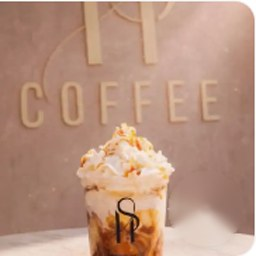
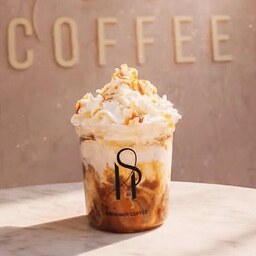
SH Coffee : nouvelles photos du Poulet pesto, du Matcha crème brûlée et de la Brioche à composer
Photos du restaurant recadrées et rendues plus nettes, affichées en
grand dans la fiche produit.

Claude-Session: https://claude.ai/code/session_0158WgzdzDHdazuwW1qVe7W2

diff --git a/sh-coffee/index.html b/sh-coffee/index.html
@@ -610,7 +610,7 @@
     </div>
   </div>
 </div>
-<script type="application/json" id="products-data">{"Toast italien": {"price": "13,90 €", "desc": "Stracciatella, roquette, oignons caramélisés, parmesan, charcuterie de saison", "img": "images/produits/toast-italien.jpg", "large": true, "groups": []}, "Toast saumon": {"price": "13,90 €", "desc": "Cream cheese, sauce concombre, concombre, saumon, parmesan, truffe", "img": "images/carte/toast-saumon.jpg", "large": false, "groups": []}, "Le Cheesy Melt": {"price": "12,90 €", "desc": "Steak, salade, cheddar, sauce au choix", "img": "images/carte/cheesy-melt.jpg", "large": false, "groups": []}, "Le Smoked": {"price": "12,90 €", "desc": "", "img": "images/produits/le-smoked.jpg", "large": true, "groups": []}, "Poulet pesto": {"price": "12,90 €", "desc": "Poulet mariné, mayonnaise truffe, pesto, parmesan", "img": "images/carte/poulet-pesto.jpg", "large": false, "groups": []}, "Toast chicken": {"price": "12,80 €", "desc": "Poulet tenders, sauce parmesan, parmesan, salade, bacon", "img": null, "large": false, "groups": []}, "Toast savoyard": {"price": "12,80 €", "desc": "Steak, raclette, lardons, bacon, sauce moutarde-miel", "img": "images/carte/toast-savoyard.jpg", "large": false, "groups": []}, "Panuzzo": {"price": "12,00 €", "desc": "Stracciatella, double charcuterie, pesto", "img": null, "large": false, "groups": []}, "Bowl salé": {"price": "11,00 €", "desc": "", "img": null, "large": false, "groups": []}, "Pink Burger": {"price": "10,00 €", "desc": "", "img": null, "large": false, "groups": []}, "Brioche croque": {"price": "9,00 €", "desc": "Béchamel, blanc de dinde, mozzarella", "img": null, "large": false, "groups": []}, "Grilled cheese": {"price": "9,00 €", "desc": "Cheese, crème truffe (avec ou sans bacon)", "img": "images/carte/grilled-cheese.jpg", "large": false, "groups": []}, "Toast egg": {"price": "9,00 €", "desc": "Œufs brouillés, crème truffe", "img": null, "large": false, "groups": []}, "Frites": {"price": "3,00 €", "desc": "", "img": null, "large": false, "groups": []}, "Formule toast + frites + boisson": {"price": "17,20 €", "desc": "Un toast au choix, une portion de frites et une boisson.", "img": null, "large": false, "groups": [{"title": "Toast", "note": "1 au choix", "items": [{"name": "Cheesy Melt", "price": ""}, {"name": "Chicken", "price": ""}, {"name": "Italien", "price": ""}, {"name": "Poulet pesto", "price": ""}, {"name": "Savoyard", "price": ""}, {"name": "Smoked", "price": ""}]}, {"title": "Frites", "note": "Comprises", "items": [{"name": "Frites", "price": ""}]}, {"title": "Boisson", "note": "1 au choix · prix de la formule", "items": [{"name": "Passiona", "price": "17,20 €"}, {"name": "Violetta", "price": "17,20 €"}, {"name": "Refreshe (sirop au choix)", "price": "17,20 €"}, {"name": "Dragon Sunset", "price": "17,20 €"}, {"name": "Fresh fusion", "price": "17,20 €"}, {"name": "Lita", "price": "17,90 €"}, {"name": "Bubble tea", "price": "17,90 €"}, {"name": "Passion Paradise", "price": "17,90 €"}, {"name": "Mojito (au choix)", "price": "17,90 €"}, {"name": "Eau (Chicken, Cheesy Melt)", "price": "17,00 €"}, {"name": "Eau (autres toasts)", "price": "17,20 €"}]}]}, "Formule brioche croque + frites + boisson": {"price": "14,20 €", "desc": "Brioche croque, une portion de frites et une boisson.", "img": null, "large": false, "groups": [{"title": "Frites", "note": "Comprises", "items": [{"name": "Frites", "price": ""}]}, {"title": "Boisson", "note": "1 au choix · prix de la formule", "items": [{"name": "Passiona", "price": "14,20 €"}, {"name": "Violetta", "price": "14,20 €"}, {"name": "Refreshe (sirop au choix)", "price": "14,20 €"}, {"name": "Dragon Sunset", "price": "14,20 €"}, {"name": "Fresh fusion", "price": "14,20 €"}, {"name": "Lita", "price": "14,90 €"}, {"name": "Bubble tea", "price": "14,90 €"}, {"name": "Passion Paradise", "price": "14,90 €"}, {"name": "Mojito (au choix)", "price": "14,90 €"}, {"name": "Eau", "price": "14,00 €"}]}]}, "Brioche pistacho": {"price": "9,00 €", "desc": "Crème pistache, concassé de pistache", "img": "images/carte/brioche-pistacho.jpg", "large": false, "groups": []}, "Brioche crazy": {"price": "9,00 €", "desc": "Crème brûlée", "img": "images/carte/brioche-crazy.jpg", "large": false, "groups": []}, "Brioche Dubaï": {"price": "9,00 €", "desc": "Kunefe, fraise, Nutella, pistache", "img": null, "large": false, "groups": []}, "Brioche tiramisu": {"price": "9,00 €", "desc": "Café, crème tiramisu, chocolat", "img": null, "large": false, "groups": []}, "Brioche pommie": {"price": "9,00 €", "desc": "Pomme, caramel, crème maison", "img": null, "large": false, "groups": []}, "Brioche banane flambée": {"price": "9,00 €", "desc": "Brioche perdue, chantilly, banane flambée, caramel", "img": null, "large": false, "groups": []}, "Brioche citron": {"price": "9,00 €", "desc": "", "img": "images/produits/brioche-citron.jpg", "large": true, "groups": []}, "Brioche à composer": {"price": "5,00 €", "desc": "Brioche à composer au choix", "img": "images/carte/brioche-a-composer.jpg", "large": false, "groups": []}, "Cookie dough": {"price": "9,00 €", "desc": "Cookie, Nutella, crème Bueno, chocolat blanc, Kinder Maxi", "img": "images/produits/cookie-dough.jpg", "large": true, "groups": []}, "Cup Dubaï": {"price": "9,50 €", "desc": "", "img": "images/carte/cup-dubai.jpg", "large": false, "groups": []}, "Choco banana": {"price": "8,00 €", "desc": "", "img": null, "large": false, "groups": []}, "Cup": {"price": "dès 5,00 €", "desc": "Pancakes, gaufres ou brioches, avec nappage et extras au choix.", "img": "images/carte/cup.jpg", "large": false, "groups": [{"title": "Base", "note": "1 au choix", "items": [{"name": "Pancakes", "price": "5,00 €"}, {"name": "Gaufres", "price": "5,50 €"}, {"name": "Brioches", "price": "5,50 €"}]}, {"title": "Nappage", "note": "1 au choix", "items": [{"name": "Nutella", "price": "+1,00 €"}, {"name": "Coulis caramel", "price": "+1,00 €"}, {"name": "Coulis spéculoos", "price": "+1,00 €"}, {"name": "Coulis chocolat blanc", "price": "+1,00 €"}, {"name": "Coulis Bueno white", "price": "+1,00 €"}, {"name": "Coulis pistache", "price": "+1,50 €"}, {"name": "Coulis fruits rouges", "price": "+1,50 €"}, {"name": "Sans nappage", "price": ""}]}, {"title": "Extras", "note": "En option", "items": [{"name": "Banane", "price": "+1,50 €"}, {"name": "Fraise", "price": "+1,50 €"}, {"name": "Pistache", "price": "+1,50 €"}, {"name": "Spéculoos", "price": "+1,00 €"}, {"name": "Oreo", "price": "+1,00 €"}, {"name": "Kinder maxi", "price": "+1,00 €"}, {"name": "Kinder country", "price": "+1,00 €"}, {"name": "Kinder Bueno", "price": "+1,00 €"}, {"name": "Kinder Bueno white", "price": "+1,00 €"}, {"name": "Chantilly", "price": "+1,00 €"}, {"name": "Glace", "price": "+1,00 €"}, {"name": "Sans extra", "price": ""}]}]}, "Bowl sucré": {"price": "9,00 €", "desc": "Base au choix, avec nappage et extras au choix.", "img": "images/carte/bowl-sucre.jpg", "large": false, "groups": [{"title": "Base", "note": "Comprise, 1 au choix", "items": [{"name": "Gaufres", "price": ""}, {"name": "Pancakes", "price": ""}, {"name": "Brioches", "price": ""}]}, {"title": "Nappage", "note": "1 au choix", "items": [{"name": "Nutella", "price": "+1,00 €"}, {"name": "Coulis caramel", "price": "+1,00 €"}, {"name": "Coulis spéculoos", "price": "+1,00 €"}, {"name": "Coulis chocolat blanc", "price": "+1,00 €"}, {"name": "Coulis Bueno white", "price": "+1,00 €"}, {"name": "Coulis pistache", "price": "+1,50 €"}, {"name": "Coulis fruits rouges", "price": "+1,50 €"}, {"name": "Sans nappage", "price": ""}]}, {"title": "Extras", "note": "En option", "items": [{"name": "Banane", "price": "+1,50 €"}, {"name": "Fraise", "price": "+1,50 €"}, {"name": "Pistache", "price": "+1,50 €"}, {"name": "Spéculoos", "price": "+1,00 €"}, {"name": "Oreo", "price": "+1,00 €"}, {"name": "Kinder maxi", "price": "+1,00 €"}, {"name": "Kinder country", "price": "+1,00 €"}, {"name": "Kinder Bueno", "price": "+1,00 €"}, {"name": "Kinder Bueno white", "price": "+1,00 €"}, {"name": "Chantilly", "price": "+1,00 €"}, {"name": "Glace", "price": "+1,00 €"}, {"name": "Sans extra", "price": ""}]}]}, "Pancakes": {"price": "5,00 €", "desc": "", "img": null, "large": false, "groups": []}, "Citron cake": {"price": "3,00 €", "desc": "", "img": null, "large": false, "groups": []}, "Matcha crème brûlée": {"price": "7,00 €", "desc": "Sirop vanille, lait vanille, matcha, crème brûlée", "img": "images/carte/matcha-creme-brulee.jpg", "large": false, "groups": []}, "Matcha strawberry": {"price": "7,00 €", "desc": "Purée de fraise, lait d'avoine, matcha", "img": null, "large": false, "groups": []}, "Matcha mangue": {"price": "7,00 €", "desc": "Purée de mangue, lait d'avoine, matcha", "img": null, "large": false, "groups": []}, "Matcha": {"price": "6,00 €", "desc": "", "img": null, "large": false, "groups": []}, "Lita": {"price": "5,80 €", "desc": "Limonade, rose, framboise, litchi", "img": "images/produits/lita.jpg", "large": true, "groups": []}, "Passion Paradise": {"price": "5,50 €", "desc": "Limonade passion, crème passion", "img": "images/produits/passion-paradise.jpg", "large": true, "groups": []}, "Dragon Sunset": {"price": "5,00 €", "desc": "Citronnade, mangue, thé, fruit du dragon frais", "img": "images/carte/dragon-sunset.jpg", "large": false, "groups": []}, "Violetta": {"price": "5,00 €", "desc": "Citronnade, violette", "img": "images/carte/violetta.jpg", "large": false, "groups": []}, "Passiona": {"price": "5,00 €", "desc": "Mangue, passion, grenade", "img": "images/produits/passiona.jpg", "large": true, "groups": []}, "Fresh fusion": {"price": "5,00 €", "desc": "", "img": "images/carte/fresh-fusion.jpg", "large": false, "groups": []}, "Caramel macchiato": {"price": "5,00 €", "desc": "", "img": "images/produits/caramel-macchiato.jpg", "large": true, "groups": []}, "Bubble tea": {"price": "6,00 €", "desc": "Boba et sirop au choix.", "img": "images/produits/bubble-tea.jpg", "large": true, "groups": [{"title": "Boba", "note": "1 au choix", "items": [{"name": "Mangue", "price": ""}, {"name": "Passion", "price": ""}, {"name": "Litchi", "price": ""}, {"name": "Fraise", "price": ""}, {"name": "Pêche", "price": ""}]}, {"title": "Sirop", "note": "1 au choix", "items": [{"name": "Mangue", "price": ""}, {"name": "Cassis", "price": ""}, {"name": "Litchi", "price": ""}, {"name": "Framboise", "price": ""}, {"name": "Fraise", "price": ""}, {"name": "Passion", "price": ""}, {"name": "Melon", "price": ""}, {"name": "Thé vert pêche", "price": ""}, {"name": "Rose", "price": ""}, {"name": "Ananas", "price": ""}, {"name": "Pêche", "price": ""}, {"name": "Grenadine", "price": ""}]}]}, "Mojito": {"price": "5,50 €", "desc": "Parfum au choix.", "img": null, "large": false, "groups": []}, "Refreshe": {"price": "dès 3,00 €", "desc": "Sirop au choix et eau gazeuse, en canette ou en grand format.", "img": null, "large": false, "groups": [{"title": "Taille", "note": "1 au choix", "items": [{"name": "Medium (canette)", "price": "3,00 €"}, {"name": "Large", "price": "5,00 €"}]}, {"title": "Sirop", "note": "Compris, 1 au choix", "items": [{"name": "Ananas", "price": ""}, {"name": "Rose", "price": ""}, {"name": "Grenadine", "price": ""}, {"name": "Mangue", "price": ""}, {"name": "Passion", "price": ""}, {"name": "Fraise", "price": ""}, {"name": "Framboise", "price": ""}, {"name": "Thé vert pêche", "price": ""}, {"name": "Pêche", "price": ""}, {"name": "Litchi", "price": ""}, {"name": "Melon", "price": ""}, {"name": "Cassis", "price": ""}]}, {"title": "Sirop supplémentaire", "note": "En option", "items": [{"name": "Ananas", "price": "+0,50 €"}, {"name": "Rose", "price": "+0,50 €"}, {"name": "Grenadine", "price": "+0,50 €"}, {"name": "Mangue", "price": "+0,50 €"}, {"name": "Passion", "price": "+0,50 €"}, {"name": "Fraise", "price": "+0,50 €"}, {"name": "Framboise", "price": "+0,50 €"}, {"name": "Thé vert pêche", "price": "+0,50 €"}, {"name": "Pêche", "price": "+0,50 €"}, {"name": "Litchi", "price": "+0,50 €"}, {"name": "Melon", "price": "+0,50 €"}, {"name": "Cassis", "price": "+0,50 €"}]}]}, "Eau": {"price": "1,50 €", "desc": "En canette SH Coffee.", "img": "images/produits/eau.jpg", "large": true, "groups": []}, "Cappuccino": {"price": "4,00 €", "desc": "", "img": null, "large": false, "groups": []}, "Chocolat chaud": {"price": "4,00 €", "desc": "", "img": null, "large": false, "groups": []}, "Flat white": {"price": "3,50 €", "desc": "", "img": null, "large": false, "groups": []}, "Café au lait": {"price": "3,20 €", "desc": "", "img": null, "large": false, "groups": []}, "Café": {"price": "3,00 €", "desc": "", "img": null, "large": false, "groups": []}, "Expresso": {"price": "3,00 €", "desc": "", "img": null, "large": false, "groups": []}, "Americano": {"price": "3,00 €", "desc": "", "img": null, "large": false, "groups": []}, "Thé": {"price": "3,00 €", "desc": "", "img": null, "large": false, "groups": []}}</script>
+<script type="application/json" id="products-data">{"Toast italien": {"price": "13,90 €", "desc": "Stracciatella, roquette, oignons caramélisés, parmesan, charcuterie de saison", "img": "images/produits/toast-italien.jpg", "large": true, "groups": []}, "Toast saumon": {"price": "13,90 €", "desc": "Cream cheese, sauce concombre, concombre, saumon, parmesan, truffe", "img": "images/carte/toast-saumon.jpg", "large": false, "groups": []}, "Le Cheesy Melt": {"price": "12,90 €", "desc": "Steak, salade, cheddar, sauce au choix", "img": "images/carte/cheesy-melt.jpg", "large": false, "groups": []}, "Le Smoked": {"price": "12,90 €", "desc": "", "img": "images/produits/le-smoked.jpg", "large": true, "groups": []}, "Poulet pesto": {"price": "12,90 €", "desc": "Poulet mariné, mayonnaise truffe, pesto, parmesan", "img": "images/produits/poulet-pesto.jpg", "large": true, "groups": []}, "Toast chicken": {"price": "12,80 €", "desc": "Poulet tenders, sauce parmesan, parmesan, salade, bacon", "img": null, "large": false, "groups": []}, "Toast savoyard": {"price": "12,80 €", "desc": "Steak, raclette, lardons, bacon, sauce moutarde-miel", "img": "images/carte/toast-savoyard.jpg", "large": false, "groups": []}, "Panuzzo": {"price": "12,00 €", "desc": "Stracciatella, double charcuterie, pesto", "img": null, "large": false, "groups": []}, "Bowl salé": {"price": "11,00 €", "desc": "", "img": null, "large": false, "groups": []}, "Pink Burger": {"price": "10,00 €", "desc": "", "img": null, "large": false, "groups": []}, "Brioche croque": {"price": "9,00 €", "desc": "Béchamel, blanc de dinde, mozzarella", "img": null, "large": false, "groups": []}, "Grilled cheese": {"price": "9,00 €", "desc": "Cheese, crème truffe (avec ou sans bacon)", "img": "images/carte/grilled-cheese.jpg", "large": false, "groups": []}, "Toast egg": {"price": "9,00 €", "desc": "Œufs brouillés, crème truffe", "img": null, "large": false, "groups": []}, "Frites": {"price": "3,00 €", "desc": "", "img": null, "large": false, "groups": []}, "Formule toast + frites + boisson": {"price": "17,20 €", "desc": "Un toast au choix, une portion de frites et une boisson.", "img": null, "large": false, "groups": [{"title": "Toast", "note": "1 au choix", "items": [{"name": "Cheesy Melt", "price": ""}, {"name": "Chicken", "price": ""}, {"name": "Italien", "price": ""}, {"name": "Poulet pesto", "price": ""}, {"name": "Savoyard", "price": ""}, {"name": "Smoked", "price": ""}]}, {"title": "Frites", "note": "Comprises", "items": [{"name": "Frites", "price": ""}]}, {"title": "Boisson", "note": "1 au choix · prix de la formule", "items": [{"name": "Passiona", "price": "17,20 €"}, {"name": "Violetta", "price": "17,20 €"}, {"name": "Refreshe (sirop au choix)", "price": "17,20 €"}, {"name": "Dragon Sunset", "price": "17,20 €"}, {"name": "Fresh fusion", "price": "17,20 €"}, {"name": "Lita", "price": "17,90 €"}, {"name": "Bubble tea", "price": "17,90 €"}, {"name": "Passion Paradise", "price": "17,90 €"}, {"name": "Mojito (au choix)", "price": "17,90 €"}, {"name": "Eau (Chicken, Cheesy Melt)", "price": "17,00 €"}, {"name": "Eau (autres toasts)", "price": "17,20 €"}]}]}, "Formule brioche croque + frites + boisson": {"price": "14,20 €", "desc": "Brioche croque, une portion de frites et une boisson.", "img": null, "large": false, "groups": [{"title": "Frites", "note": "Comprises", "items": [{"name": "Frites", "price": ""}]}, {"title": "Boisson", "note": "1 au choix · prix de la formule", "items": [{"name": "Passiona", "price": "14,20 €"}, {"name": "Violetta", "price": "14,20 €"}, {"name": "Refreshe (sirop au choix)", "price": "14,20 €"}, {"name": "Dragon Sunset", "price": "14,20 €"}, {"name": "Fresh fusion", "price": "14,20 €"}, {"name": "Lita", "price": "14,90 €"}, {"name": "Bubble tea", "price": "14,90 €"}, {"name": "Passion Paradise", "price": "14,90 €"}, {"name": "Mojito (au choix)", "price": "14,90 €"}, {"name": "Eau", "price": "14,00 €"}]}]}, "Brioche pistacho": {"price": "9,00 €", "desc": "Crème pistache, concassé de pistache", "img": "images/carte/brioche-pistacho.jpg", "large": false, "groups": []}, "Brioche crazy": {"price": "9,00 €", "desc": "Crème brûlée", "img": "images/carte/brioche-crazy.jpg", "large": false, "groups": []}, "Brioche Dubaï": {"price": "9,00 €", "desc": "Kunefe, fraise, Nutella, pistache", "img": null, "large": false, "groups": []}, "Brioche tiramisu": {"price": "9,00 €", "desc": "Café, crème tiramisu, chocolat", "img": null, "large": false, "groups": []}, "Brioche pommie": {"price": "9,00 €", "desc": "Pomme, caramel, crème maison", "img": null, "large": false, "groups": []}, "Brioche banane flambée": {"price": "9,00 €", "desc": "Brioche perdue, chantilly, banane flambée, caramel", "img": null, "large": false, "groups": []}, "Brioche citron": {"price": "9,00 €", "desc": "", "img": "images/produits/brioche-citron.jpg", "large": true, "groups": []}, "Brioche à composer": {"price": "5,00 €", "desc": "Brioche à composer au choix", "img": "images/produits/brioche-a-composer.jpg", "large": true, "groups": []}, "Cookie dough": {"price": "9,00 €", "desc": "Cookie, Nutella, crème Bueno, chocolat blanc, Kinder Maxi", "img": "images/produits/cookie-dough.jpg", "large": true, "groups": []}, "Cup Dubaï": {"price": "9,50 €", "desc": "", "img": "images/carte/cup-dubai.jpg", "large": false, "groups": []}, "Choco banana": {"price": "8,00 €", "desc": "", "img": null, "large": false, "groups": []}, "Cup": {"price": "dès 5,00 €", "desc": "Pancakes, gaufres ou brioches, avec nappage et extras au choix.", "img": "images/carte/cup.jpg", "large": false, "groups": [{"title": "Base", "note": "1 au choix", "items": [{"name": "Pancakes", "price": "5,00 €"}, {"name": "Gaufres", "price": "5,50 €"}, {"name": "Brioches", "price": "5,50 €"}]}, {"title": "Nappage", "note": "1 au choix", "items": [{"name": "Nutella", "price": "+1,00 €"}, {"name": "Coulis caramel", "price": "+1,00 €"}, {"name": "Coulis spéculoos", "price": "+1,00 €"}, {"name": "Coulis chocolat blanc", "price": "+1,00 €"}, {"name": "Coulis Bueno white", "price": "+1,00 €"}, {"name": "Coulis pistache", "price": "+1,50 €"}, {"name": "Coulis fruits rouges", "price": "+1,50 €"}, {"name": "Sans nappage", "price": ""}]}, {"title": "Extras", "note": "En option", "items": [{"name": "Banane", "price": "+1,50 €"}, {"name": "Fraise", "price": "+1,50 €"}, {"name": "Pistache", "price": "+1,50 €"}, {"name": "Spéculoos", "price": "+1,00 €"}, {"name": "Oreo", "price": "+1,00 €"}, {"name": "Kinder maxi", "price": "+1,00 €"}, {"name": "Kinder country", "price": "+1,00 €"}, {"name": "Kinder Bueno", "price": "+1,00 €"}, {"name": "Kinder Bueno white", "price": "+1,00 €"}, {"name": "Chantilly", "price": "+1,00 €"}, {"name": "Glace", "price": "+1,00 €"}, {"name": "Sans extra", "price": ""}]}]}, "Bowl sucré": {"price": "9,00 €", "desc": "Base au choix, avec nappage et extras au choix.", "img": "images/carte/bowl-sucre.jpg", "large": false, "groups": [{"title": "Base", "note": "Comprise, 1 au choix", "items": [{"name": "Gaufres", "price": ""}, {"name": "Pancakes", "price": ""}, {"name": "Brioches", "price": ""}]}, {"title": "Nappage", "note": "1 au choix", "items": [{"name": "Nutella", "price": "+1,00 €"}, {"name": "Coulis caramel", "price": "+1,00 €"}, {"name": "Coulis spéculoos", "price": "+1,00 €"}, {"name": "Coulis chocolat blanc", "price": "+1,00 €"}, {"name": "Coulis Bueno white", "price": "+1,00 €"}, {"name": "Coulis pistache", "price": "+1,50 €"}, {"name": "Coulis fruits rouges", "price": "+1,50 €"}, {"name": "Sans nappage", "price": ""}]}, {"title": "Extras", "note": "En option", "items": [{"name": "Banane", "price": "+1,50 €"}, {"name": "Fraise", "price": "+1,50 €"}, {"name": "Pistache", "price": "+1,50 €"}, {"name": "Spéculoos", "price": "+1,00 €"}, {"name": "Oreo", "price": "+1,00 €"}, {"name": "Kinder maxi", "price": "+1,00 €"}, {"name": "Kinder country", "price": "+1,00 €"}, {"name": "Kinder Bueno", "price": "+1,00 €"}, {"name": "Kinder Bueno white", "price": "+1,00 €"}, {"name": "Chantilly", "price": "+1,00 €"}, {"name": "Glace", "price": "+1,00 €"}, {"name": "Sans extra", "price": ""}]}]}, "Pancakes": {"price": "5,00 €", "desc": "", "img": null, "large": false, "groups": []}, "Citron cake": {"price": "3,00 €", "desc": "", "img": null, "large": false, "groups": []}, "Matcha crème brûlée": {"price": "7,00 €", "desc": "Sirop vanille, lait vanille, matcha, crème brûlée", "img": "images/produits/matcha-creme-brulee.jpg", "large": true, "groups": []}, "Matcha strawberry": {"price": "7,00 €", "desc": "Purée de fraise, lait d'avoine, matcha", "img": null, "large": false, "groups": []}, "Matcha mangue": {"price": "7,00 €", "desc": "Purée de mangue, lait d'avoine, matcha", "img": null, "large": false, "groups": []}, "Matcha": {"price": "6,00 €", "desc": "", "img": null, "large": false, "groups": []}, "Lita": {"price": "5,80 €", "desc": "Limonade, rose, framboise, litchi", "img": "images/produits/lita.jpg", "large": true, "groups": []}, "Passion Paradise": {"price": "5,50 €", "desc": "Limonade passion, crème passion", "img": "images/produits/passion-paradise.jpg", "large": true, "groups": []}, "Dragon Sunset": {"price": "5,00 €", "desc": "Citronnade, mangue, thé, fruit du dragon frais", "img": "images/carte/dragon-sunset.jpg", "large": false, "groups": []}, "Violetta": {"price": "5,00 €", "desc": "Citronnade, violette", "img": "images/carte/violetta.jpg", "large": false, "groups": []}, "Passiona": {"price": "5,00 €", "desc": "Mangue, passion, grenade", "img": "images/produits/passiona.jpg", "large": true, "groups": []}, "Fresh fusion": {"price": "5,00 €", "desc": "", "img": "images/carte/fresh-fusion.jpg", "large": false, "groups": []}, "Caramel macchiato": {"price": "5,00 €", "desc": "", "img": "images/produits/caramel-macchiato.jpg", "large": true, "groups": []}, "Bubble tea": {"price": "6,00 €", "desc": "Boba et sirop au choix.", "img": "images/produits/bubble-tea.jpg", "large": true, "groups": [{"title": "Boba", "note": "1 au choix", "items": [{"name": "Mangue", "price": ""}, {"name": "Passion", "price": ""}, {"name": "Litchi", "price": ""}, {"name": "Fraise", "price": ""}, {"name": "Pêche", "price": ""}]}, {"title": "Sirop", "note": "1 au choix", "items": [{"name": "Mangue", "price": ""}, {"name": "Cassis", "price": ""}, {"name": "Litchi", "price": ""}, {"name": "Framboise", "price": ""}, {"name": "Fraise", "price": ""}, {"name": "Passion", "price": ""}, {"name": "Melon", "price": ""}, {"name": "Thé vert pêche", "price": ""}, {"name": "Rose", "price": ""}, {"name": "Ananas", "price": ""}, {"name": "Pêche", "price": ""}, {"name": "Grenadine", "price": ""}]}]}, "Mojito": {"price": "5,50 €", "desc": "Parfum au choix.", "img": null, "large": false, "groups": []}, "Refreshe": {"price": "dès 3,00 €", "desc": "Sirop au choix et eau gazeuse, en canette ou en grand format.", "img": null, "large": false, "groups": [{"title": "Taille", "note": "1 au choix", "items": [{"name": "Medium (canette)", "price": "3,00 €"}, {"name": "Large", "price": "5,00 €"}]}, {"title": "Sirop", "note": "Compris, 1 au choix", "items": [{"name": "Ananas", "price": ""}, {"name": "Rose", "price": ""}, {"name": "Grenadine", "price": ""}, {"name": "Mangue", "price": ""}, {"name": "Passion", "price": ""}, {"name": "Fraise", "price": ""}, {"name": "Framboise", "price": ""}, {"name": "Thé vert pêche", "price": ""}, {"name": "Pêche", "price": ""}, {"name": "Litchi", "price": ""}, {"name": "Melon", "price": ""}, {"name": "Cassis", "price": ""}]}, {"title": "Sirop supplémentaire", "note": "En option", "items": [{"name": "Ananas", "price": "+0,50 €"}, {"name": "Rose", "price": "+0,50 €"}, {"name": "Grenadine", "price": "+0,50 €"}, {"name": "Mangue", "price": "+0,50 €"}, {"name": "Passion", "price": "+0,50 €"}, {"name": "Fraise", "price": "+0,50 €"}, {"name": "Framboise", "price": "+0,50 €"}, {"name": "Thé vert pêche", "price": "+0,50 €"}, {"name": "Pêche", "price": "+0,50 €"}, {"name": "Litchi", "price": "+0,50 €"}, {"name": "Melon", "price": "+0,50 €"}, {"name": "Cassis", "price": "+0,50 €"}]}]}, "Eau": {"price": "1,50 €", "desc": "En canette SH Coffee.", "img": "images/produits/eau.jpg", "large": true, "groups": []}, "Cappuccino": {"price": "4,00 €", "desc": "", "img": null, "large": false, "groups": []}, "Chocolat chaud": {"price": "4,00 €", "desc": "", "img": null, "large": false, "groups": []}, "Flat white": {"price": "3,50 €", "desc": "", "img": null, "large": false, "groups": []}, "Café au lait": {"price": "3,20 €", "desc": "", "img": null, "large": false, "groups": []}, "Café": {"price": "3,00 €", "desc": "", "img": null, "large": false, "groups": []}, "Expresso": {"price": "3,00 €", "desc": "", "img": null, "large": false, "groups": []}, "Americano": {"price": "3,00 €", "desc": "", "img": null, "large": false, "groups": []}, "Thé": {"price": "3,00 €", "desc": "", "img": null, "large": false, "groups": []}}</script>
 
 <script id="main-script">
   // Fiche produit : s'ouvre au clic sur un produit de la carte
